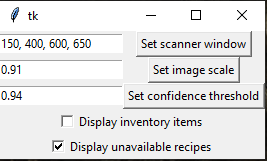
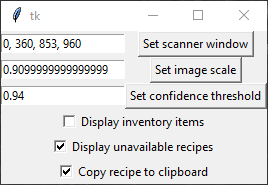
update image/text in the readme for 'copy to clipboard'

Changed region(s): [[0.0, 0.0, 1.0, 1.0], [0.8689, 0.0621, 0.9288, 0.1242], [0.5393, 0.0621, 0.5993, 0.1242]]

diff --git a/README.md b/README.md
@@ -13,7 +13,6 @@ When you start the program three small buttons will pop up in the top left corne
 * 'Scan' button does all the magic. Once you press it, the program will enter the scanning mode and the button will change to 'Scanning...'. It will scan your screen according to the scanning window area and will create a list of all possible recipes. After the scan completes, the button will change again to 'Hide'. Once you examine the scan result, click the 'Hide' button to hide them.
 
 You could also hold the right mouse button to drag the controls around.
-Clicking on item in the recipe tree will copy the components to your clipboard to use in-game highlighting.
 
 ### Settings
 
@@ -34,6 +33,8 @@ The setting window allows you to adjust some parameters to improve the searching
 * 'Display inventory items' checkbox turns additional display setting for scan window. The scan results will also include a list of all of your archnemesis items in the inventory.
 
 * 'Display unavailable recipes' checkbox turns the display of all possible recipes even if you can't currently build them. The unavailable recipes will be indicated by the white color (light green if you already have it in your inventory).
+
+* 'Copy recipe to clipboard' check box copies a recipee string like `^(Malediction|Deadeye)` to your clipboard when clicking on items in the list or tree views. This allows you to paste into the search box and use the in-game highlighting.
 
 The settings are persistent and will be saved/loaded from settings.ini file.
 
